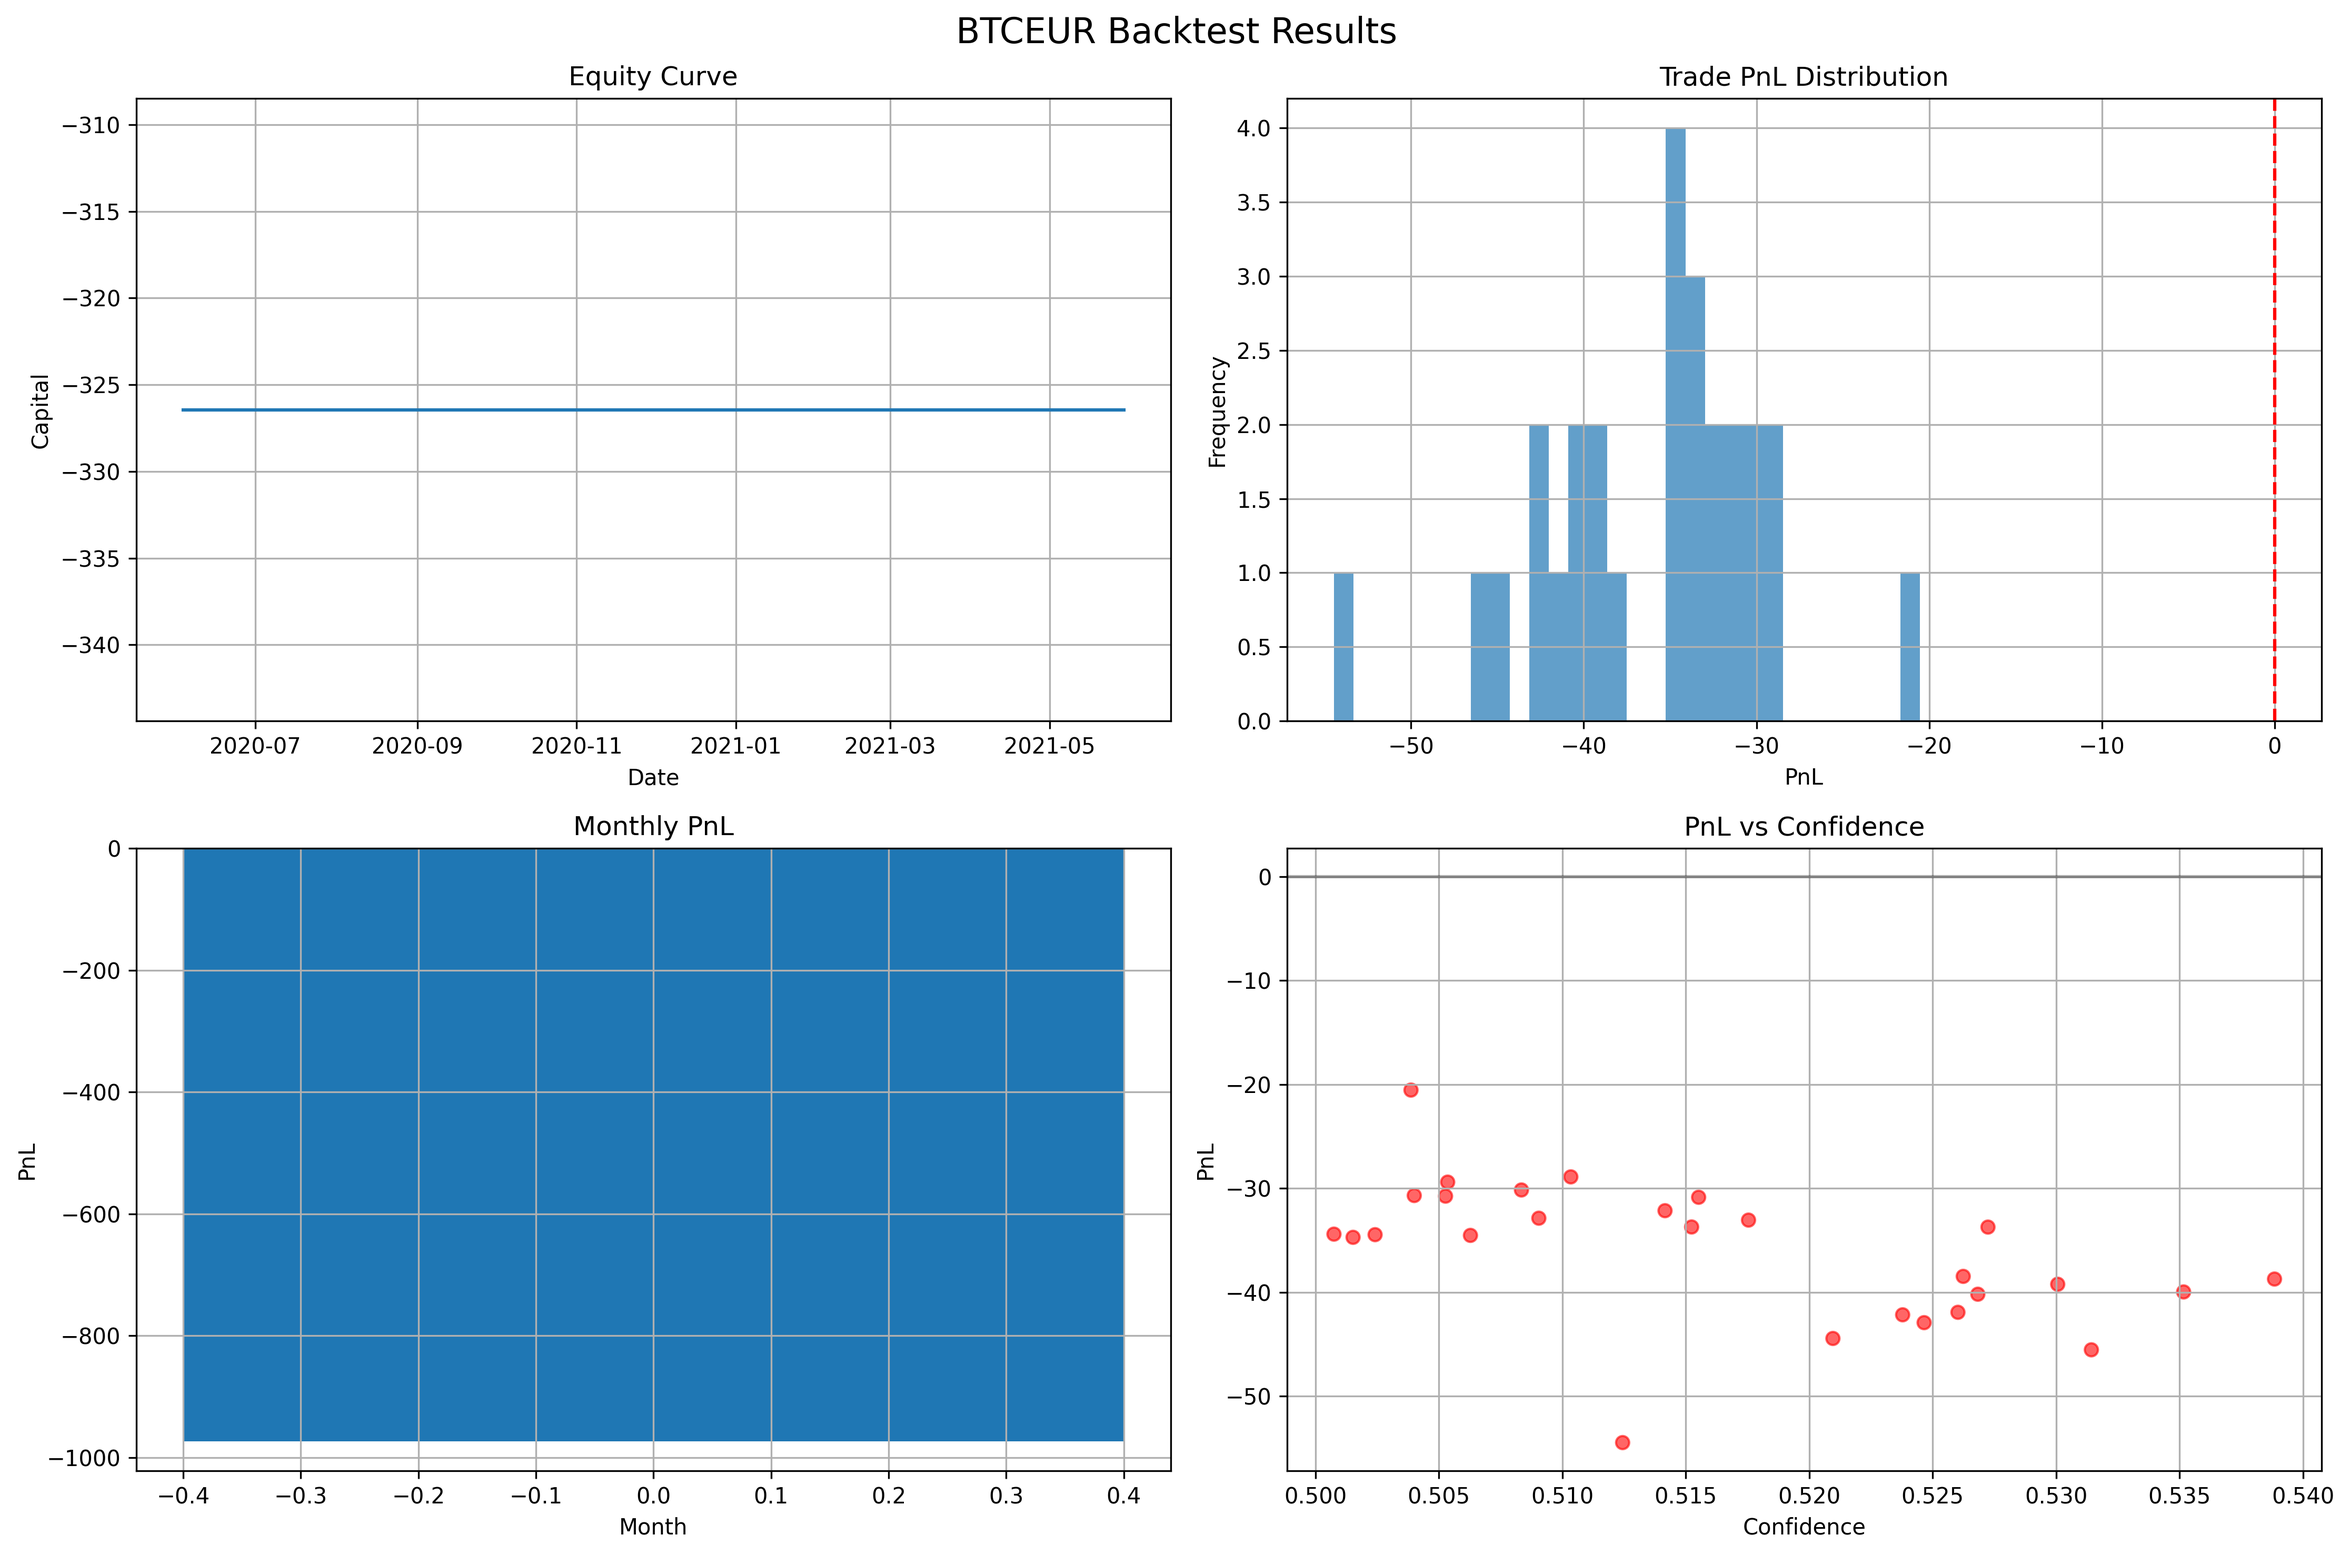
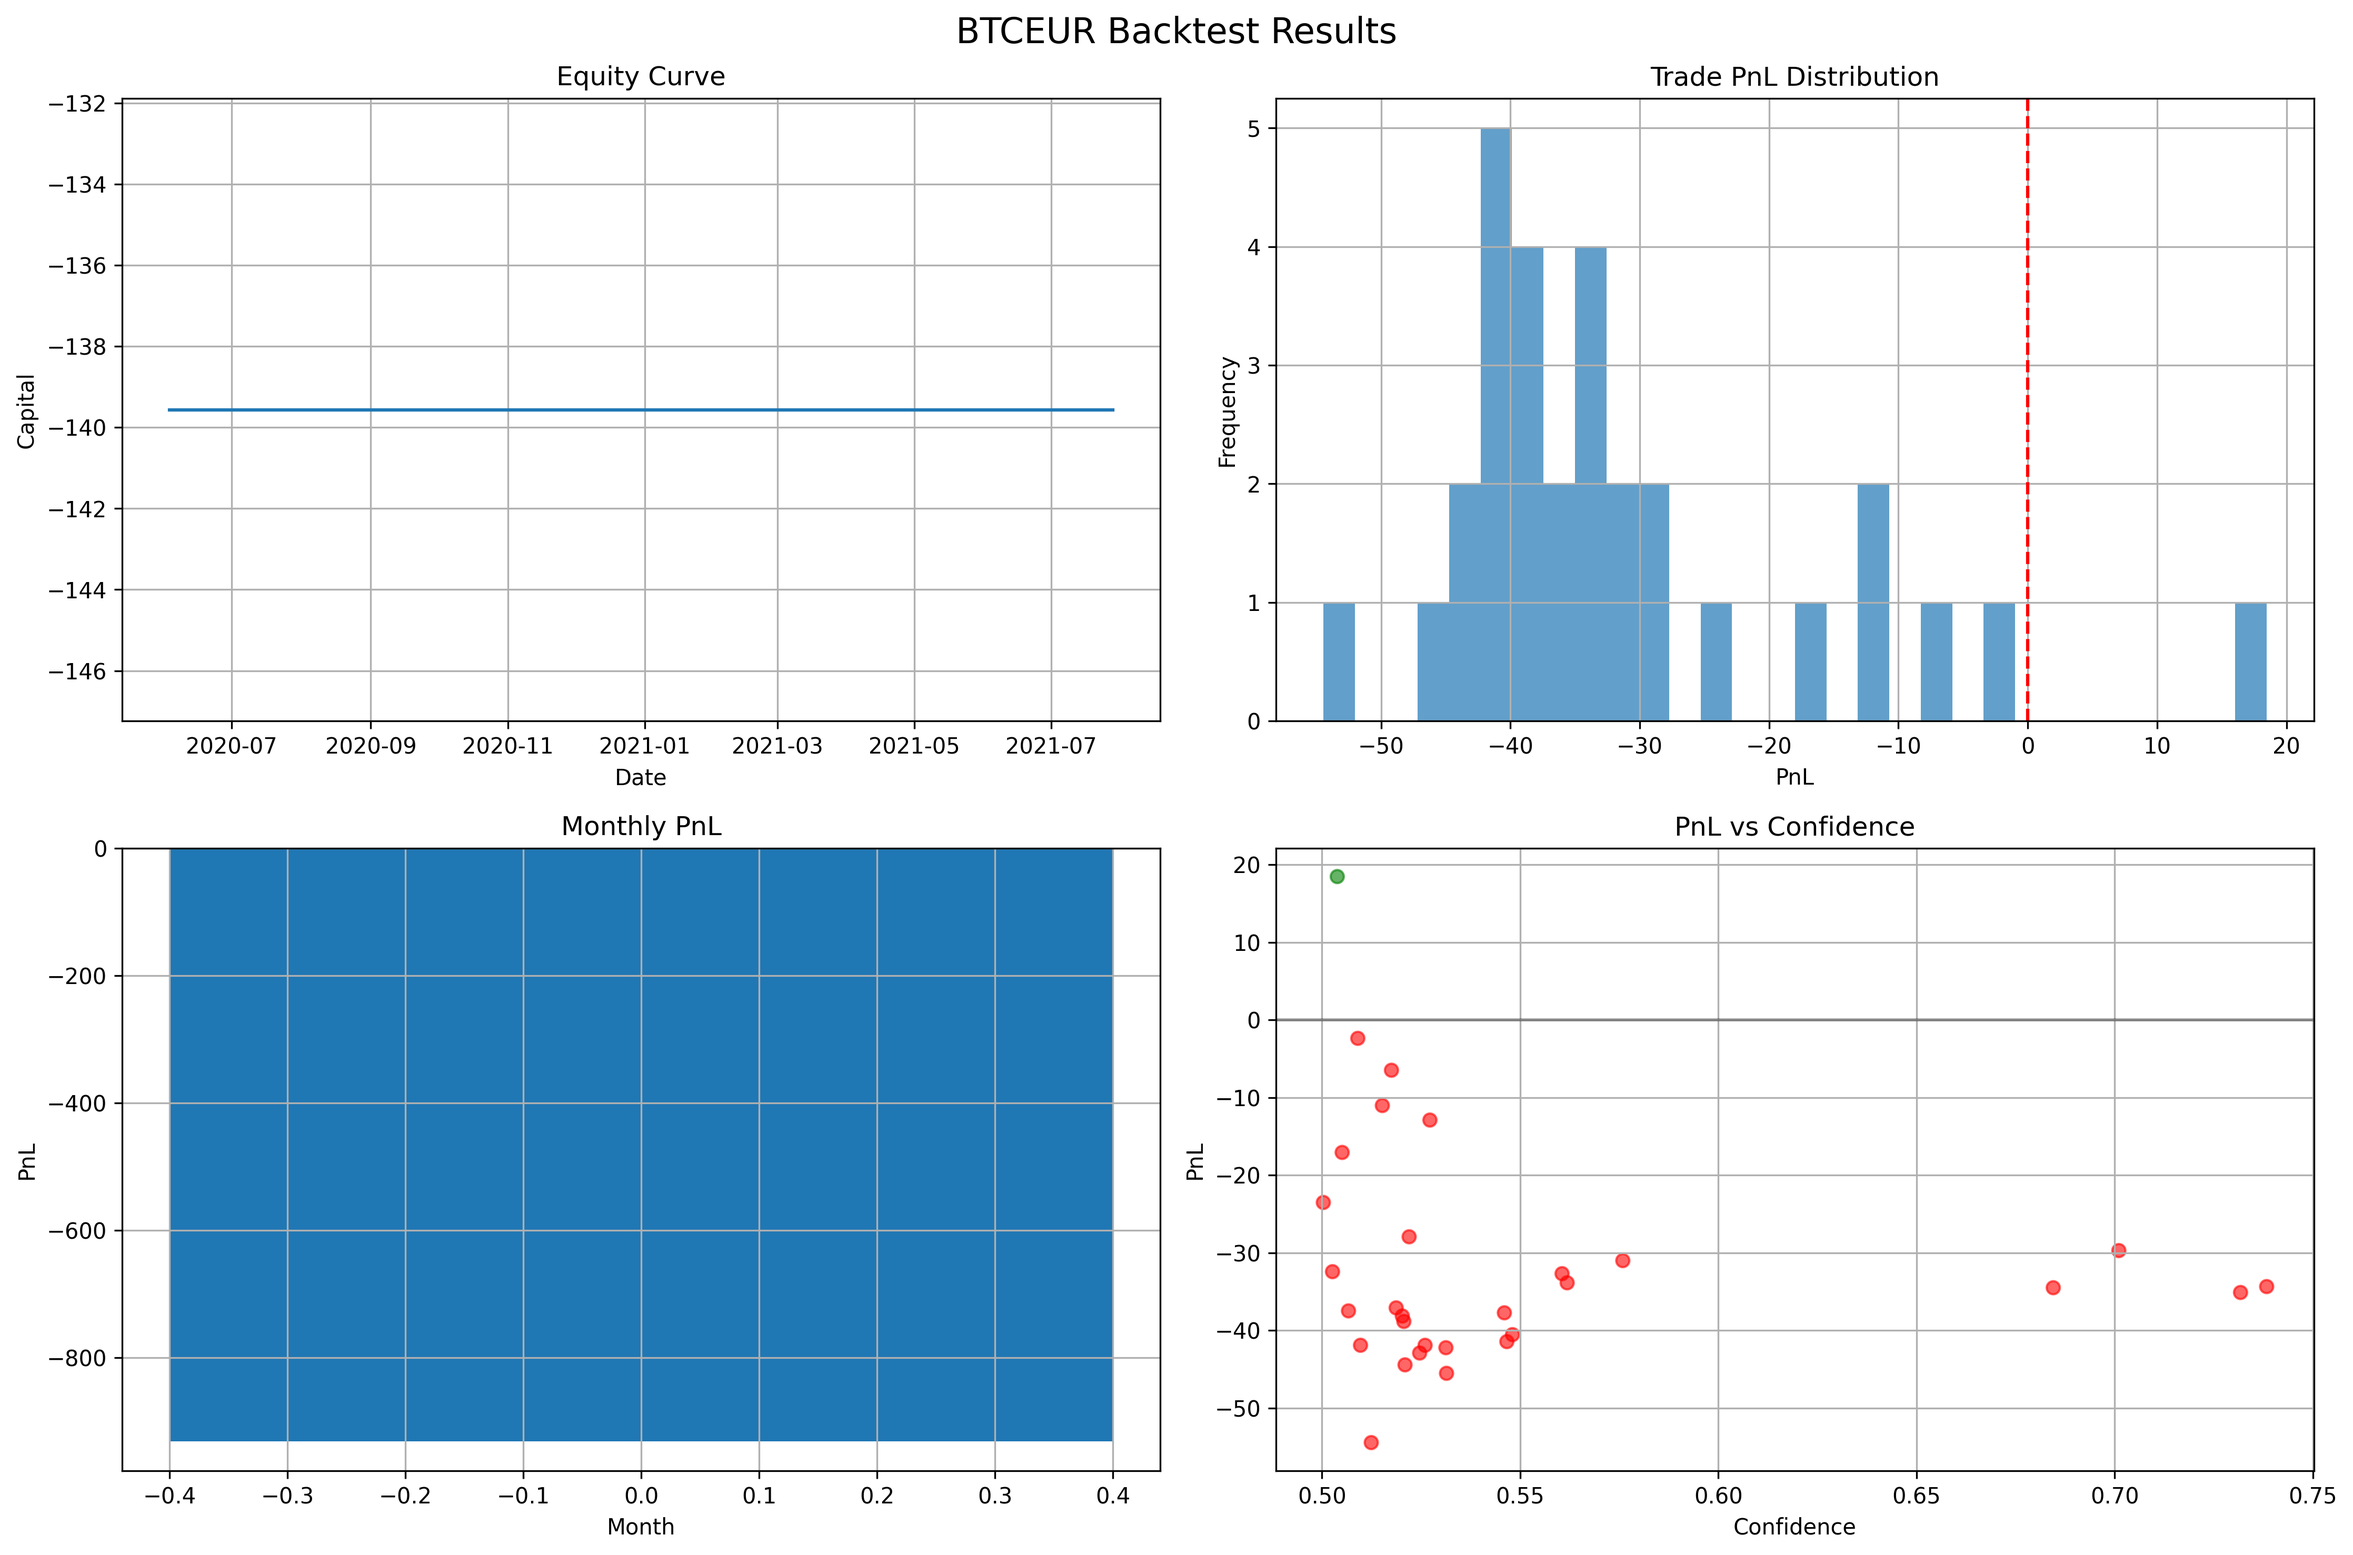
Update window selection to use last 15 windows instead of fixed range 2-15

diff --git a/scripts/backtest_models.py b/scripts/backtest_models.py
@@ -1321,7 +1321,7 @@ class ModelBacktester:
         return None
 
     def _get_available_windows(self, symbol: str) -> List[int]:
-        """Get list of available window numbers for a symbol, limited to windows 2-15"""
+        """Get list of available window numbers for a symbol, using the last 15 windows"""
         import glob
         import re
         
@@ -1350,12 +1350,14 @@ class ModelBacktester:
                 print(f"    ⚠ No common windows found for {symbol}")
             return []
         
-        # Use specific windows 2-15 instead of last 15 windows
-        target_windows = list(range(2, 16))  # Windows 2-15
-        available_target_windows = [w for w in target_windows if w in common_windows]
+        # Use the last 15 windows (or all if fewer than 15 available)
+        if len(common_windows) > 15:
+            available_target_windows = common_windows[-15:]  # Take the last 15 windows
+        else:
+            available_target_windows = common_windows  # Use all available windows
         
         if self.config.verbose:
-            print(f"    📊 Available windows for {symbol}: {len(common_windows)} total, using windows 2-15: {available_target_windows}")
+            print(f"    📊 Available windows for {symbol}: {len(common_windows)} total, using last 15: {available_target_windows}")
         
         return available_target_windows
     

diff --git a/validate_fixes.py b/validate_fixes.py
@@ -12,7 +12,7 @@ import warnings
 warnings.filterwarnings('ignore')
 
 def test_window_selection():
-    """Test that first 15 windows are now being used"""
+    """Test that last 15 windows are now being used"""
     print("=== Testing Window Selection ===")
     
     config = BacktestConfig()
@@ -26,14 +26,14 @@ def test_window_selection():
     print(f"Using first window: {available_windows[0]}")
     print(f"Using last window: {available_windows[-1]}")
     
-    # Verify these are the first 15 windows (should be 3-17)
-    expected_first_15 = list(range(3, 18))  # 3, 4, 5, ..., 17
-    actual_first_15 = available_windows[:15] if len(available_windows) >= 15 else available_windows
+    # Verify these are the last 15 windows (should be all available: 1-15)
+    expected_last_15 = list(range(1, 16))  # 1, 2, 3, ..., 15 (all available windows)
+    actual_last_15 = available_windows[-15:] if len(available_windows) >= 15 else available_windows
     
-    if actual_first_15 == expected_first_15:
-        print("✅ PASS: Using first 15 windows as expected (3-17)")
+    if actual_last_15 == expected_last_15:
+        print("✅ PASS: Using last 15 windows as expected (1-15)")
     else:
-        print(f"❌ FAIL: Expected {expected_first_15}, got {actual_first_15}")
+        print(f"❌ FAIL: Expected {expected_last_15}, got {actual_last_15}")
     
     print()
 
